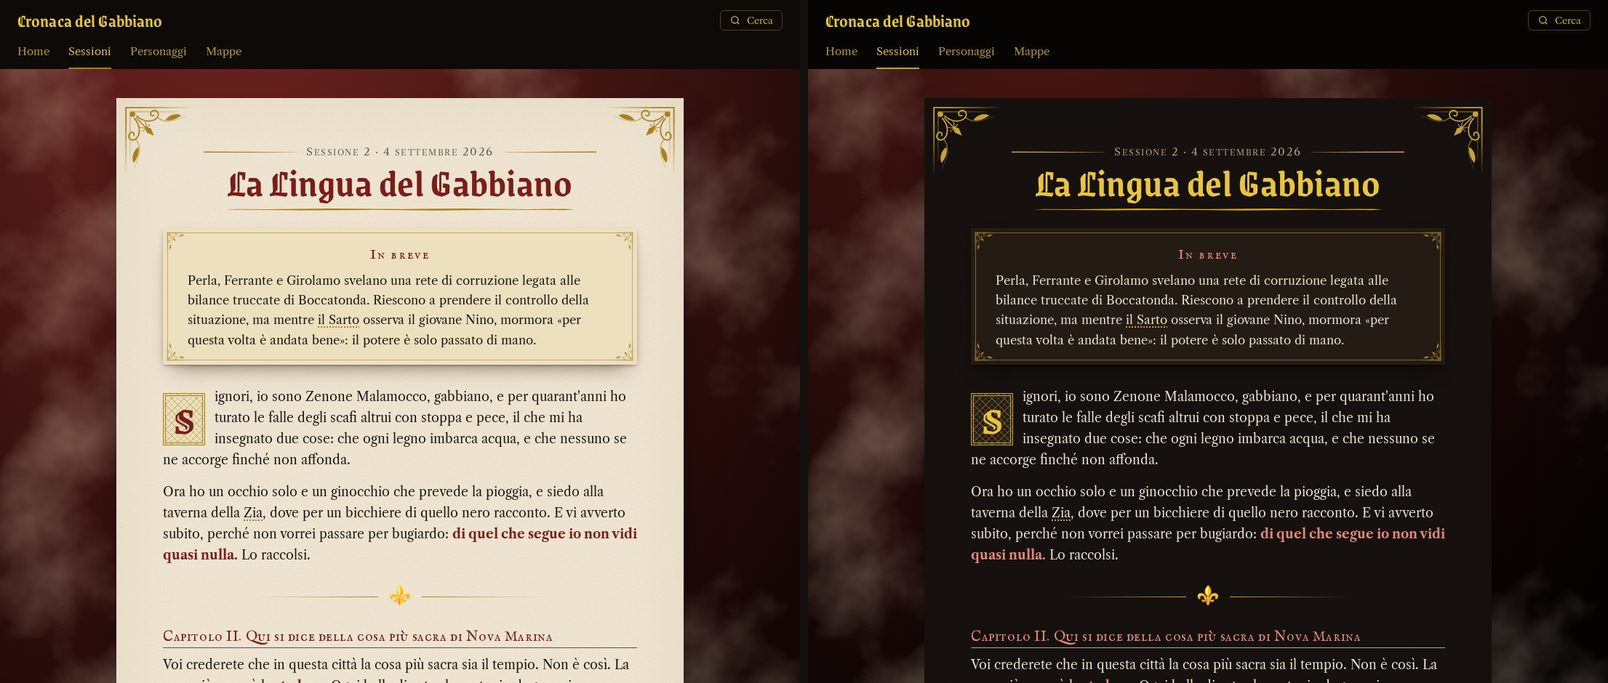
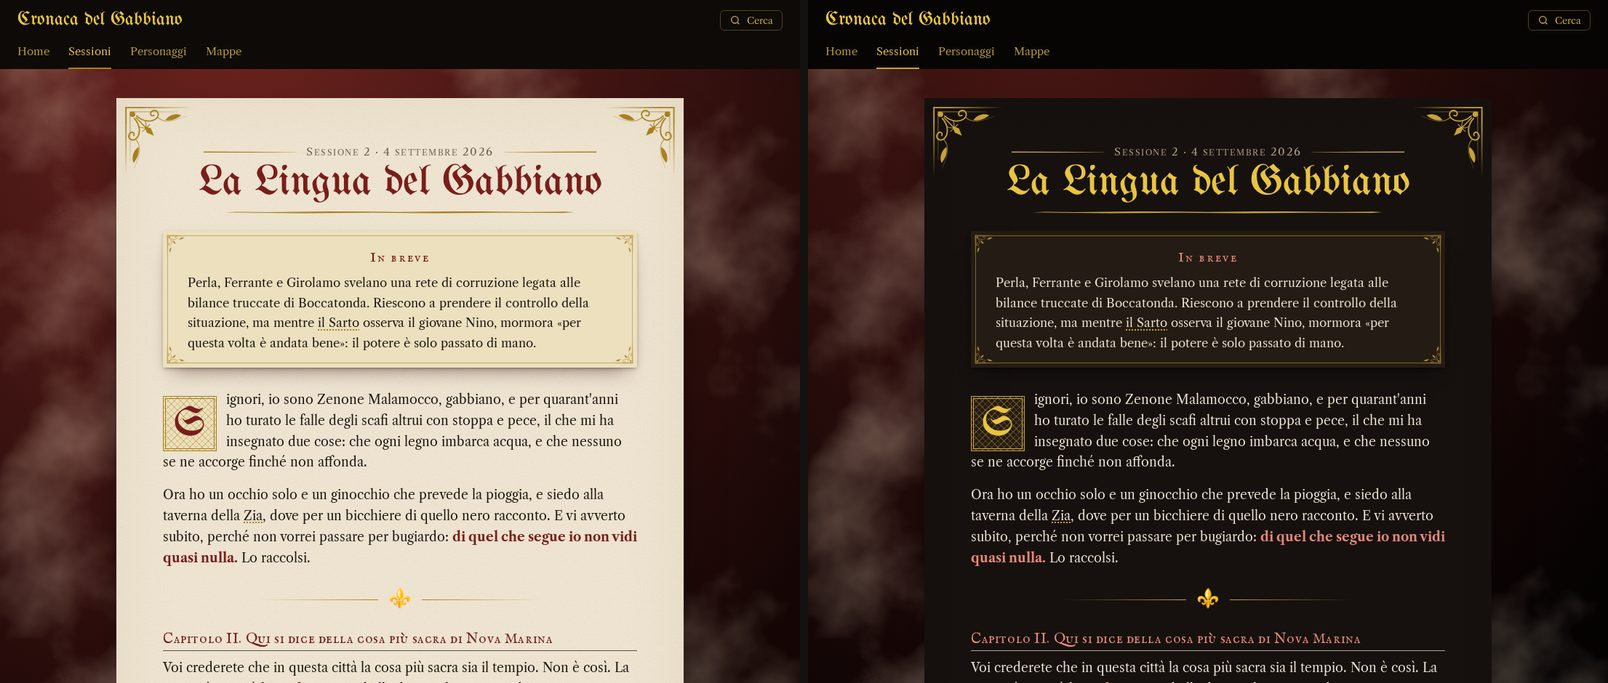
fix: rubric wrapping and cartouche identity box padding
- Rubric subheadings (subheadings: rubric) wrap as text does instead of
  being balanced, so a long one fills the line over its rule and only
  avoids leaving a single word alone. Titles stay balanced.
- The identity box gets enough padding, with boxes: cartouche, for its
  labels to clear the inner frame.
- oro-di-copertina now suggests UnifrakturMaguntia for headings, and its
  README screenshot shows it.

Claude-Session: https://claude.ai/code/session_017Ru4a2fCSZvqCkLGD72GBY
Assisted-by: claude-code/claude-opus-5

diff --git a/zensical_ttrpg/assets/stylesheets/ttrpg.css b/zensical_ttrpg/assets/stylesheets/ttrpg.css
@@ -217,8 +217,10 @@
 
 /* With extra.ttrpg.subheadings: rubric, h2 to h4 are rubrics, as in an old
    manual: smaller, in the bold colour, over a dark rule. Only the page's own
-   headings; the home page's section titles keep their look. */
+   headings; the home page's section titles keep their look. They wrap as
+   text does, filling the line over the rule, with no word left alone. */
 .ttrpg-rubrics .md-typeset > :is(h2, h3, h4) {
+  text-wrap: pretty;
   color: var(--ttrpg-strong);
   font-size: 1.15em;
   line-height: 1.25;
@@ -466,6 +468,11 @@
 
 .ttrpg-cartouche .md-typeset :is(.ttrpg-brief, blockquote, .ttrpg-hub__session) {
   padding: 1.1em 1.6em 1em;
+}
+
+/* The identity box is narrow: enough room to clear the frame, no more. */
+.ttrpg-cartouche .md-typeset .ttrpg-infobox {
+  padding: 1em 1.1em;
 }
 
 .ttrpg-cartouche .md-typeset :is(.ttrpg-brief, blockquote, .ttrpg-infobox, .ttrpg-hub__session)::before {

diff --git a/zensical_ttrpg/assets/stylesheets/palettes/oro-di-copertina.css b/zensical_ttrpg/assets/stylesheets/palettes/oro-di-copertina.css
@@ -4,7 +4,7 @@
  * on warm parchment by day, gold titles on near-black by candlelight. Fits
  * any dark, Renaissance, gothic campaign.
  *
- * Suggested with heading_font: Grenze Gotisch (heading_weight: 600),
+ * Suggested with heading_font: UnifrakturMaguntia,
  * subheading_font: IM Fell English SC, text font Libre Caslon Text,
  * title: centered, subheadings: rubric, drop_cap: illuminated,
  * corners: filigree and boxes: cartouche.

diff --git a/README.md b/README.md
@@ -42,7 +42,7 @@ Zensical, from a release tag:
 
 ```text
 zensical==0.0.62
-zensical-ttrpg @ https://github.com/Stevesibilia/zensical-ttrpg/archive/refs/tags/v0.4.0.tar.gz
+zensical-ttrpg @ https://github.com/Stevesibilia/zensical-ttrpg/archive/refs/tags/v0.4.1.tar.gz
 ```
 
 No git is needed to install it, so it works in slim Docker images.
@@ -209,11 +209,11 @@ longest-first; keep common words out.
 
 ## Palettes
 
-| Palette            | Light                                         | Dark                             | Backdrop                             | Ornaments | Pairs with                                                                                          |
-| ------------------ | --------------------------------------------- | -------------------------------- | ------------------------------------ | --------- | --------------------------------------------------------------------------------------------------- |
-| `marina`           | navy and brass on parchment                   | pale blue and brass on slate     | the sea, seen from a plane           | ⚓ ✥      | IM Fell English SC, Alegreya                                                                        |
-| `sangue-e-neve`    | crimson on cold white, petrol header          | rose-red on night, petrol header | falling snow                         | ☾ ✠       | Cinzel, EB Garamond, `title: centered`                                                              |
-| `oro-di-copertina` | blood red on parchment, black and gold header | gold on near-black               | an oil glaze, warm glows in the dark | ⚜ ❦       | Grenze Gotisch (600), Libre Caslon Text, IM Fell English SC for subheadings, and every style option |
+| Palette            | Light                                         | Dark                             | Backdrop                             | Ornaments | Pairs with                                                                                        |
+| ------------------ | --------------------------------------------- | -------------------------------- | ------------------------------------ | --------- | ------------------------------------------------------------------------------------------------- |
+| `marina`           | navy and brass on parchment                   | pale blue and brass on slate     | the sea, seen from a plane           | ⚓ ✥      | IM Fell English SC, Alegreya                                                                      |
+| `sangue-e-neve`    | crimson on cold white, petrol header          | rose-red on night, petrol header | falling snow                         | ☾ ✠       | Cinzel, EB Garamond, `title: centered`                                                            |
+| `oro-di-copertina` | blood red on parchment, black and gold header | gold on near-black               | an oil glaze, warm glows in the dark | ⚜ ❦       | UnifrakturMaguntia, Libre Caslon Text, IM Fell English SC for subheadings, and every style option |
 
 A session page in each palette, light scheme on the left and dark on the
 right. These come from the mock-ups the palettes were chosen on, with text
